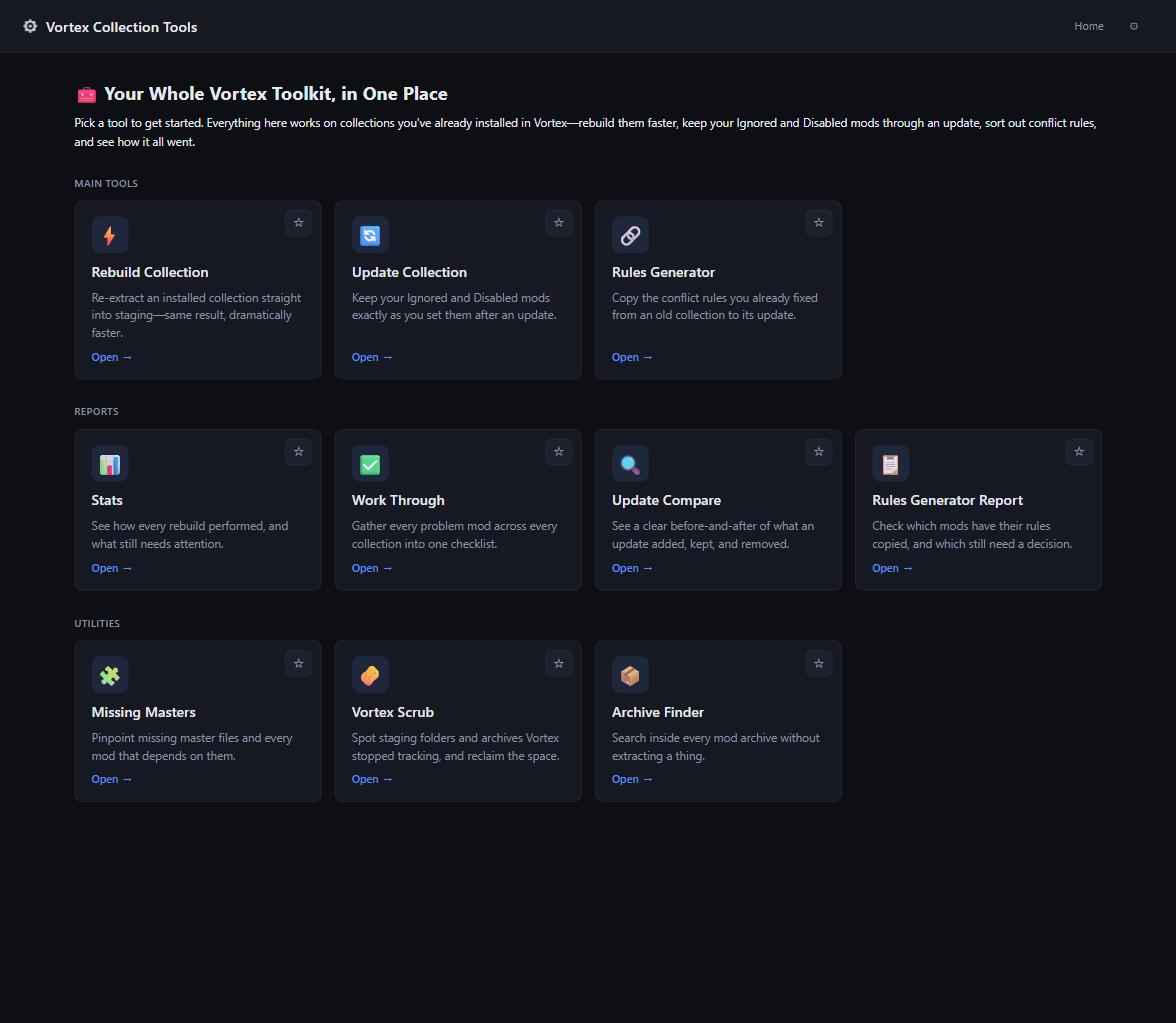
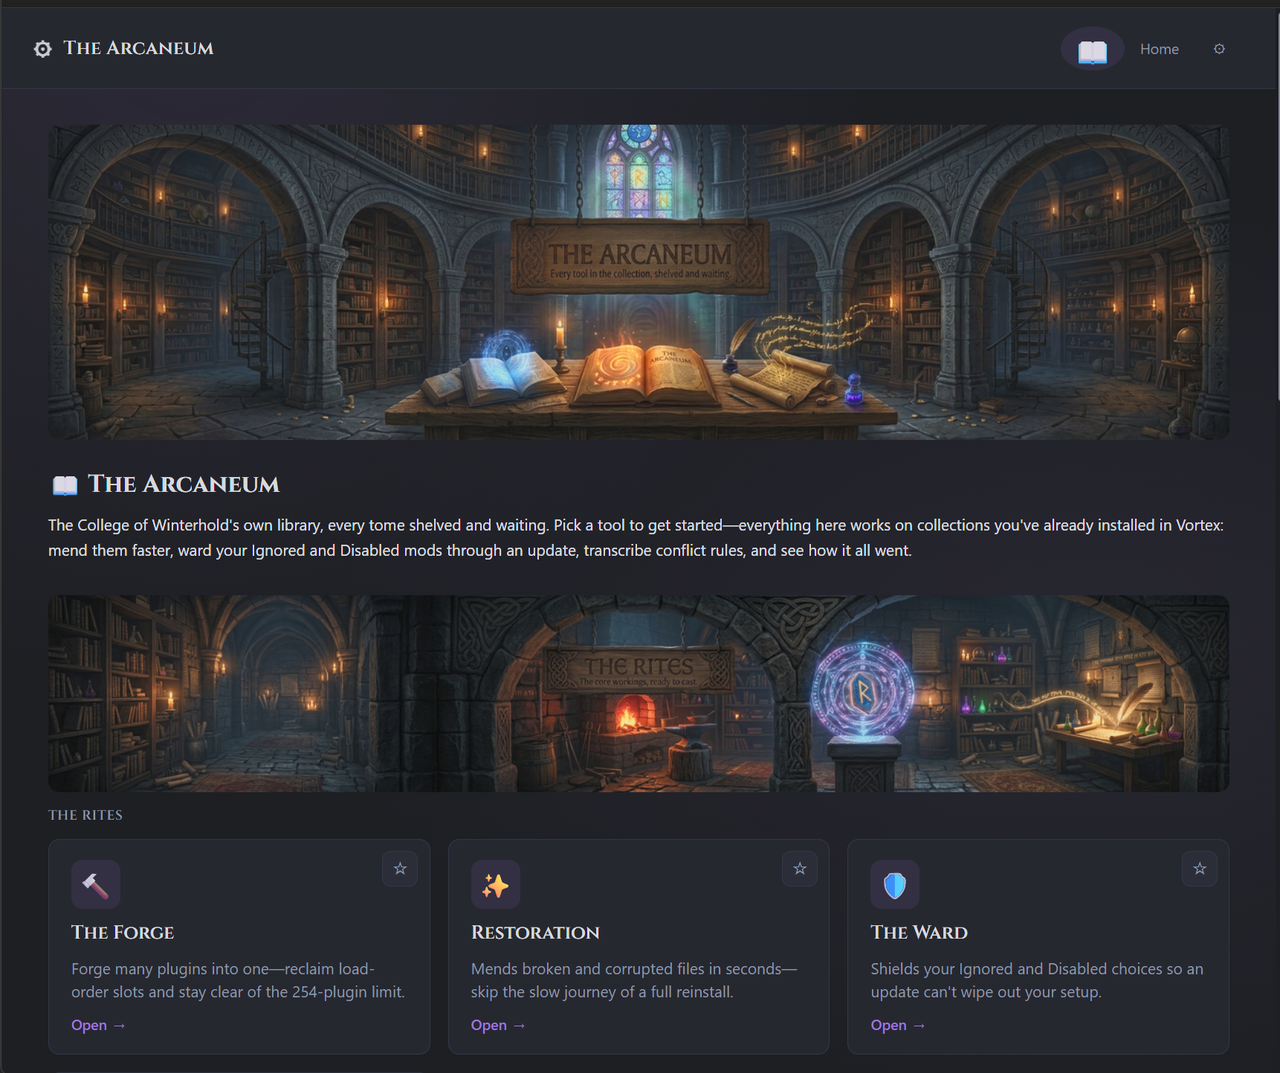
v1.0.0 prep: README rewrite, real themed Home screenshot, release notes draft
README: rewrote Key Features into two catalogued sections (Main Tools, Utilities)
covering exactly the 8 tools that actually have a Home-page card, each naming its
Skyrim-themed name alongside the real one for fun (Rebuild Collection / Restoration,
Merge Plugins / The Forge, etc.). Reports are intentionally left off the list per
director's direction -- new reports get covered in their own release notes instead,
not baked into the evergreen README. Added a new "Make It Yours" section covering
the Skyrim theme, the accent/background-tint color picker, the 6-font picker, and
The Arcaneum's own Get Started book. Swapped in a real screenshot of the themed Home
page (director-provided, compressed via scripts/compress-image.js).

Bumped package.json to 1.0.0 -- every core tool is built and stable, and this
release adds the whole theming/personalization system as its own milestone.

Drafted github-releases/release-notes-v1.0.0.md (same format as prior releases) and
a Gemini image prompt for the v1.0.0 release banner (design/gemini-release-banner-
prompts.md) -- a dragon-slain, victory-at-dawn scene per director's own direction,
a deliberate one-off departure from the series' usual moody-workshop framing to
mark the milestone. Banner not yet generated -- Gemini's job per the established
four-brain asset pipeline.

Also verified the actual v1.0.0 release zip end-to-end: built via build-release.ps1,
confirmed the minimal packaged layout, and smoke-tested the packaged copy's own
[…]

diff --git a/README.md b/README.md
@@ -16,9 +16,11 @@ custom mod-order rules intact when a collection gets updated, and merging plugin
 load-order slots. A set of smaller Utilities rounds it
 out — clearing away leftover mod clutter, catching missing master files before they crash your
 game, and finding any file inside any archive without unpacking it. Every tool lives behind one
-Home page, so you're never more than a click away from the one you need.
+Home page, so you're never more than a click away from the one you need. Want to have some fun with
+it? Switch on the Skyrim theme and every tool gets a lore name to match — see **🎨 Make It Yours**
+below.
 
-![The Home page — every tool, one click away](assets/readme-home-screenshot.png)
+![The Arcaneum — the Skyrim-themed Home page, one click away from every tool](assets/readme-home-screenshot.png)
 
 ### 📋 At a Glance
 
@@ -40,64 +42,72 @@ Home page, so you're never more than a click away from the one you need.
 * **Settings, all in one easy-to-scan place:** Pick a category on the left, see just its settings
   on the right — instead of one long scrolling page. Pin the ones you touch most, same as the Home
   page.
-* **Rebuilds mods at full speed:** Extracting a big collection inside Vortex takes hours and can
-  even run your PC out of memory. This tool extracts the same files — including FOMOD installer
-  choices — outside of Vortex, at full speed. ⚡ Turn on parallel extraction (up to 8 mods at once)
-  under Settings to cut that time down further, typically 2-3x faster depending on your drive.
-* **Pause a rebuild and pick it up later:** Extracting 1,000+ mods can take a while. Pause partway
-  through, close the app, and resume right where you left off whenever you're ready — nothing
-  already finished gets redone.
-* **Downloads missing mods for you:** No more manually hunting down missing archive files on Nexus
-  one by one. If you have Nexus Premium, this tool detects what's missing and downloads the exact
-  version your collection needs, automatically.
-* **Checks for missing files without a full rebuild:** Something not working in-game usually means
-  a few files quietly went missing from staging — not your whole collection. Rebuild Missing Files
-  checks one or more collections, shows you exactly what's gone mod by mod, and restores just those
-  files straight from the archive.
-* **See when you actually last touched a Workshop collection:** Nexus shows a fixed date for a
-  private collection that never changes, even as you keep working on it. Workshop Report pulls the
-  real timestamp from the collection's own revision history instead, so you can sort newest to
-  oldest and spot exactly which ones are overdue for an update.
+
+### 🧰 Main Tools
+
+* **Rebuild Collection** *(✨ Restoration)*: Extracting a big collection inside
+  Vortex takes hours and can even run your PC out of memory. This rebuilds the same files —
+  including FOMOD installer choices — outside of Vortex, at full speed. ⚡ Turn on parallel
+  extraction (up to 8 mods at once) under Settings to cut that time down further, typically 2-3x
+  faster depending on your drive. Pause partway through and pick it up right where you left off
+  whenever you're ready — nothing already finished gets redone. If you have Nexus Premium, it can
+  even download missing archives for you automatically. And it leaves your `.ghost` files (Vortex's
+  own marker for a disabled file) untouched, so custom file tweaks survive a reinstall.
+* **Update Collection** *(🛡 The Ward)*: Updating a collection in Vortex normally forgets which
+  mods you'd marked Ignored or Disabled, leaving you to dig through a list of 1,900+ mods to turn
+  off the same 35 again. This snapshots those choices before the update and restores them
+  automatically once it's done — no manual cleanup. The whole update walks you through it one clear
+  step at a time, previewing what's about to happen before it touches anything real.
+* **Rules Generator** *(✒ The Scribe)*: Updating a collection can leave the "load after"-style
+  rules you'd set up pointing at nothing. This matches your old rules to their counterparts in the
+  updated collection automatically — even auto-updating a rule that used to point at an older
+  version of a mod — so you're not manually re-linking hundreds of mods by hand.
+* **Merge Plugins** *(🔨 The Forge)*: Skyrim's plugin limit fills up fast, especially with lots of
+  small mods. This bundles new-content plugins from your collections into a single file — review
+  exactly what's going in first — and flags the result ESL automatically when it qualifies, so it
+  costs you 0 slots and the originals are safe to disable afterward.
+
+### 🧩 Utilities
+
+* **Missing Masters** *(🔮 The Augur)*: Shows you every active plugin whose master file isn't
+  actually there — the classic Skyrim "missing master" crash — the moment it happens, with no
+  manual rescan needed. Use **Create Dummy Master** to patch it instantly, or **Rebuild This Mod**
+  to re-extract the real files if the install just came up empty.
+* **Mod Scrub** *(🔥 The Cleansing)*: Finds staging folders and downloaded archives Vortex no
+  longer has any connection to — leftovers from a mod you uninstalled, or an old duplicate download
+  — and lets you review and remove them, with a permanent exclude list for anything you want to
+  keep around on purpose.
+* **Archive Finder** *(👁 Clairvoyance)*: Indexes every archive in your downloads folder up front
+  — no unpacking required — so you can search across all of them by file or mod name and pull out
+  exactly the file you need, whenever you need it.
+* **Rebuild Missing Files** *(🗝 The Vault-Keeper)*: Something not working in-game usually means a
+  few files quietly went missing from staging — not your whole collection. This checks one or more
+  collections, shows you exactly what's gone mod by mod, and restores just those files straight
+  from the archive.
 * **Skip mods that need a human, not a rebuild:** Some mods are hand-pick-only installers where you
   deliberately chose just a few of the files inside — auto-restoring "everything" would install
   content you never wanted, risking missing masters or crashes. Add a mod to the Mod Exceptions
   list once, and both Rebuild Collection and Rebuild Missing Files leave it alone from then on,
   wherever it shows up.
-* **Keeps your Ignored/Disabled choices:** Updating a collection in Vortex normally forgets which
-  mods you'd marked Ignored or Disabled, leaving you to dig through a list of 1,900+ mods to turn
-  off the same 35 again. This tool snapshots those choices before the update and restores them
-  automatically once it's done — no manual cleanup. The whole update now walks you through it one
-  clear step at a time, so you always know what to do and when.
-* **Rebuilds your custom mod-order rules after an update:** Updating a collection can leave the
-  "load after"-style rules you'd set up pointing at nothing. Rules Generator matches your old rules
-  to their counterparts in the updated collection automatically — even auto-updating a rule that
-  used to point at an older version of a mod — so you're not manually re-linking hundreds of mods
-  by hand.
-* **Fixes broken and missing files instantly:** Whether caused by accidental deletion, Windows
-  errors, or an unexpected Vortex deployment hiccup, this tool identifies missing or corrupted
-  files and extracts fresh copies straight from your archives to get mods working again.
-* **Leaves your Ghost files alone:** Vortex marks disabled files with a `.ghost` extension.
-  Reinstalling a mod normally wipes these out or creates confusing duplicates — this tool detects
-  `.ghost` files and leaves them untouched, so your custom file tweaks survive a reinstall.
-* **Shows you exactly what changed:** Every step previews what it's about to do before it touches
-  anything real, and the Compare Report gives you a clear, color-coded summary of what was kept,
-  disabled, added, or removed by the collection author.
-* **Cleans up mod-manager clutter safely:** Mod Scrub finds staging folders and downloaded
-  archives Vortex no longer has any connection to — leftovers from a mod you uninstalled, or an old
-  duplicate download — and lets you review and remove them, with a permanent exclude list for
-  anything you want to keep around on purpose.
-* **Catches missing master files before they crash your game:** Missing Masters shows you every
-  active plugin whose master file isn't actually there — the classic Skyrim "missing master" crash
-  — the moment it happens, with no manual rescan needed. Use **Create Dummy Master** to patch it
-  instantly, or **Rebuild This Mod** to re-extract the real files if the install just came up empty.
-* **Finds any file inside any archive, instantly:** Archive Finder indexes every archive in your
-  downloads folder up front — no unpacking required — so you can search across all of them by file
-  or mod name and pull out exactly the file you need, whenever you need it.
-* **Merges plugins into one, freeing up load-order slots:** Skyrim's plugin limit fills up fast,
-  especially with lots of small mods. Merge Plugins bundles new-content plugins from your
-  collections into a single file — review exactly what's going in first — and flags the result ESL
-  automatically when it qualifies, so it costs you 0 slots and the originals are safe to disable
-  afterward.
+
+> [!TIP]
+> Every Report (Stats, Work Through, Update Compare, Rules Generator Report, Workshop Report, Mod
+> Exceptions) lives behind the **Reports** tab and is covered as it ships, in each release's own
+> notes — see the [Releases page](../../releases).
+
+### 🎨 Make It Yours
+
+* **A Skyrim theme for the whole app:** Flip a switch in Settings and every tool gets its own lore
+  name and icon — Rebuild Collection becomes Restoration, Merge Plugins becomes The Forge, and so
+  on — with a matching color accent throughout. Switch back to the plain theme any time; nothing
+  about how the tools work changes either way.
+* **Pick your own accent and background tint:** Not a fan of the theme's default color? Override
+  just the accent, just the background tint, or both, right from Settings — your pick sticks
+  per theme.
+* **Six Skyrim-style fonts to choose from:** Cinzel by default, or pick from five other
+  Skyrim-flavored fonts for the Skyrim theme's own headings and lore text.
+* **The Arcaneum — a Get Started book:** A story-flavored tour of what every tool actually does,
+  one chapter per tool, reachable from the book icon in the header or right from the Home page.
 
 ---
 

diff --git a/github-releases/release-notes-v1.0.0.md b/github-releases/release-notes-v1.0.0.md
@@ -1,0 +1,44 @@
+![V1.0.0 — The first great work, complete.](https://raw.githubusercontent.com/awesmdiver/vortex-collection-tools/master/assets/release-v1.0.0-banner.png)
+
+## Vortex Collection Tools — v1.0.0
+
+This is it — **v1.0.0**. Every core tool (Rebuild Collection, Update Collection, Rules Generator, Merge Plugins, and the Missing Masters / Mod Scrub / Archive Finder / Rebuild Missing Files utilities) is built, tested, and stable. And for this release, we had some fun: flip on the new **Skyrim theme** and the whole app transforms — every tool gets its own lore name, a matching color accent, and its own page in a brand-new **Get Started** book that walks you through what everything actually does. Thanks for sticking with this through six pre-releases to get here!
+
+### Download and run — no installs needed
+
+Grab **`VortexCollectionTools-v1.0.0-win-x64.zip`** below. It's a clean, self-contained run package — just the app itself plus its own bundled copy of Node.js and 7-Zip, nothing else to install:
+
+1. Unzip it anywhere.
+2. Close Vortex.
+3. Double-click `start-server.bat`.
+4. Your browser opens to the app automatically. First time through, it'll ask you to set your staging/downloads folders under **Settings** — do that once and you're good to go.
+
+Full instructions are in `START HERE.txt` inside the zip.
+
+### A couple of things worth knowing
+
+- **This app is really built with Nexus Premium in mind.** Most tools work fine either way, but a few features — automatically downloading a missing archive, pulling a Workshop collection's file list from Nexus — need Premium, the same rule Nexus applies to free accounts. You'll get a clear note wherever that's the case, with a way to grab the file yourself instead.
+- **Vortex needs to be fully closed** before running any tool that reads or writes its database — a rebuild or update, Rules Generator's **Apply to Vortex** step, Mod Scrub's scan, Missing Masters' **Rebuild This Mod**, and Merge Plugins. The app tells you right there if it's still open.
+- **Now tested through Vortex 2.5.0.**
+
+### 🎨 New: make it yours
+
+- **A full Skyrim theme for the whole app.** One switch in Settings, and every tool gets a lore name and icon to match — Rebuild Collection becomes **Restoration**, Update Collection becomes **The Ward**, Merge Plugins becomes **The Forge**, and so on, with a matching purple accent throughout. Switch back to the plain theme any time — nothing about how the tools actually work changes either way.
+- **Your own accent and background tint.** Not sold on the theme's default color? Override just the accent, just the background tint, or both, right from Settings. Your pick sticks per theme.
+- **Six Skyrim-style fonts.** Cinzel by default, or pick from five other Skyrim-flavored fonts for the theme's own headings and lore text.
+- **The Arcaneum — a real Get Started book.** A story-flavored tour of every tool, one chapter each, with its own banner art and a plain "what it actually does" section underneath the lore. Reachable from the book icon in the header, or right from the Home page.
+
+### 🐛 Fixed / polished since v0.6.0
+
+- **Renamed Vortex Scrub → Mod Scrub** — it's the mods themselves getting scrubbed, not Vortex.
+- **Cleaned up the release package.** The downloadable zip now ships only what's actually needed to run the app — no build scripts, no source docs, no dev-only files. Smaller, tidier, and every JSON settings file an install creates lives in its own `config/` folder instead of scattered at the top level.
+- Multi-select filter badges across every results list app-wide (Missing Masters, Rebuild Missing Files, Rules Generator, Stats, Rebuild Collection), and a sticky pick-tracking cart bar on Rebuild Missing Files, matching The Forge's own.
+- Stronger, clearer warnings on Rebuild Collection and Rebuild Missing Files about keeping Nexus collections up to date before restoring from them.
+- Various small copy, spacing, and consistency polish throughout.
+
+### What we'd love feedback on
+
+- **The Skyrim theme overall** — does it feel fun without getting in the way of actually using the tools? Anything that reads oddly once themed?
+- **The Get Started book** — is it actually useful for getting oriented, or just a nice-to-have?
+
+Open an issue with what you were doing, what you expected, and what actually happened (screenshots help a lot). Thanks for helping get this to 1.0!

diff --git a/design/gemini-release-banner-prompts.md b/design/gemini-release-banner-prompts.md
@@ -53,10 +53,29 @@ replace one relic.*
 A dark, moody Skyrim-style Nordic fantasy scene, photorealistic and cinematic, wide banner composition (2816x1536). Deep inside a torch-lit ancient Nordic vault, rows of stone alcoves line a curved stone wall, each holding a weathered relic on its own pedestal -- urns, carved idols, an enchanted blade -- all catalogued and complete except for one alcove near the center, where a faint golden outline glows on an empty pedestal, marking exactly what belongs there. An old armored vault-keeper in worn leather and fur reaches into a satchel and carefully sets a single glowing relic onto that one empty pedestal, completing the row; dust motes drift through shafts of warm torchlight, deep shadow everywhere else. At the top, a large carved weathered wooden sign hangs by iron chains, with ornate Nordic knotwork carving, reading in bold engraved fantasy-serif lettering: "THE VAULT-KEEPER" and beneath it in smaller engraved text: "Only what's missing, restored." Rich detail, atmospheric depth, dramatic rim lighting.
 ```
 
+## v1.0.0 — The first great work, complete 🐉
+
+Not a single-tool flagship like every release before it -- v1.0.0 covers the whole milestone (all 8
+main/utility tools, the Skyrim theming system, the color/font pickers, The Arcaneum's own Get Started
+book). Director's own ask for this one: something that reads as "we did something big" -- a
+dragon-slain, victory-at-dawn scene instead of the usual moody workshop-in-progress framing every
+other banner uses. Still the same carved-sign format and 2816x1536 composition for consistency, but
+warmer/triumphant lighting instead of the series' usual dim workshop mood -- a deliberate one-off for
+this milestone, not a new standing style.
+
+Sign tagline (matches title): **"The first great work, complete."**
+Fuller theme tagline (if a subtitle is wanted): *Every tool in The Arcaneum, forged, warded, and
+catalogued -- v1.0.0 is here.*
+
+```
+A dramatic Skyrim-style Nordic fantasy scene, photorealistic and cinematic, wide banner composition (2816x1536). Dawn breaks over a windswept mountain ridge above an ancient stone college -- warm golden sunrise light instead of the usual deep shadow. A lone armored dragonborn stands triumphant, breathing steady, longsword still raised, before the fallen form of a massive dragon sprawled across broken stone at their feet, wisps of pale dragon-soul essence rising into the dawn sky and dissolving into light. Behind them, the many carved towers and stained-glass windows of an ancient mage's college (matching The Arcaneum's own library) catch the first sunlight. At the top, a large carved weathered wooden sign hangs by iron chains, with ornate Nordic knotwork carving, reading in bold engraved fantasy-serif lettering: "V1.0.0" and beneath it in smaller engraved text: "The first great work, complete." Rich detail, atmospheric depth, dramatic golden-hour rim lighting.
+```
+
 ## Status
 - **Done 2026-07-29:** v0.5.0 The Forge, v0.4.0 The Augur, v0.3.0 The Scribe — titles, themed banners
   (Gemini-generated, swapped + compressed to 1280px/~1.5 MB), and alt captions all live. Prior banners
   archived as `-v1` (+ `-v1-original`).
 - **Pending:** v0.6.0 The Vault-Keeper (Rebuild Missing Files) — prompt above ready, banner not yet
   generated.
+- **Pending:** v1.0.0 dragon-slain milestone banner — prompt above ready, banner not yet generated.
 - v0.2.0 / v0.1.0: left as-is (per user).
